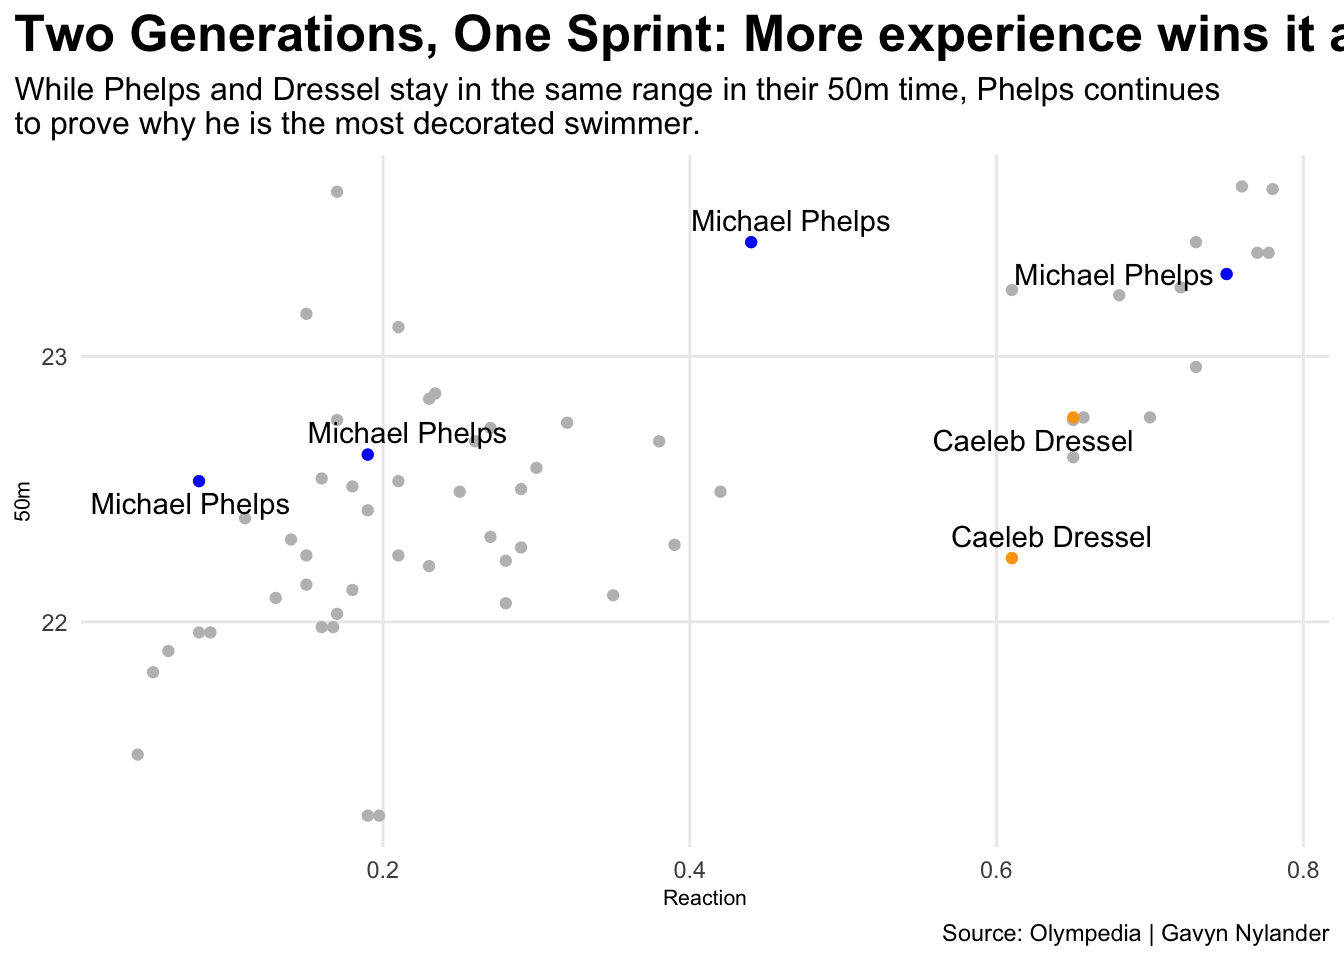
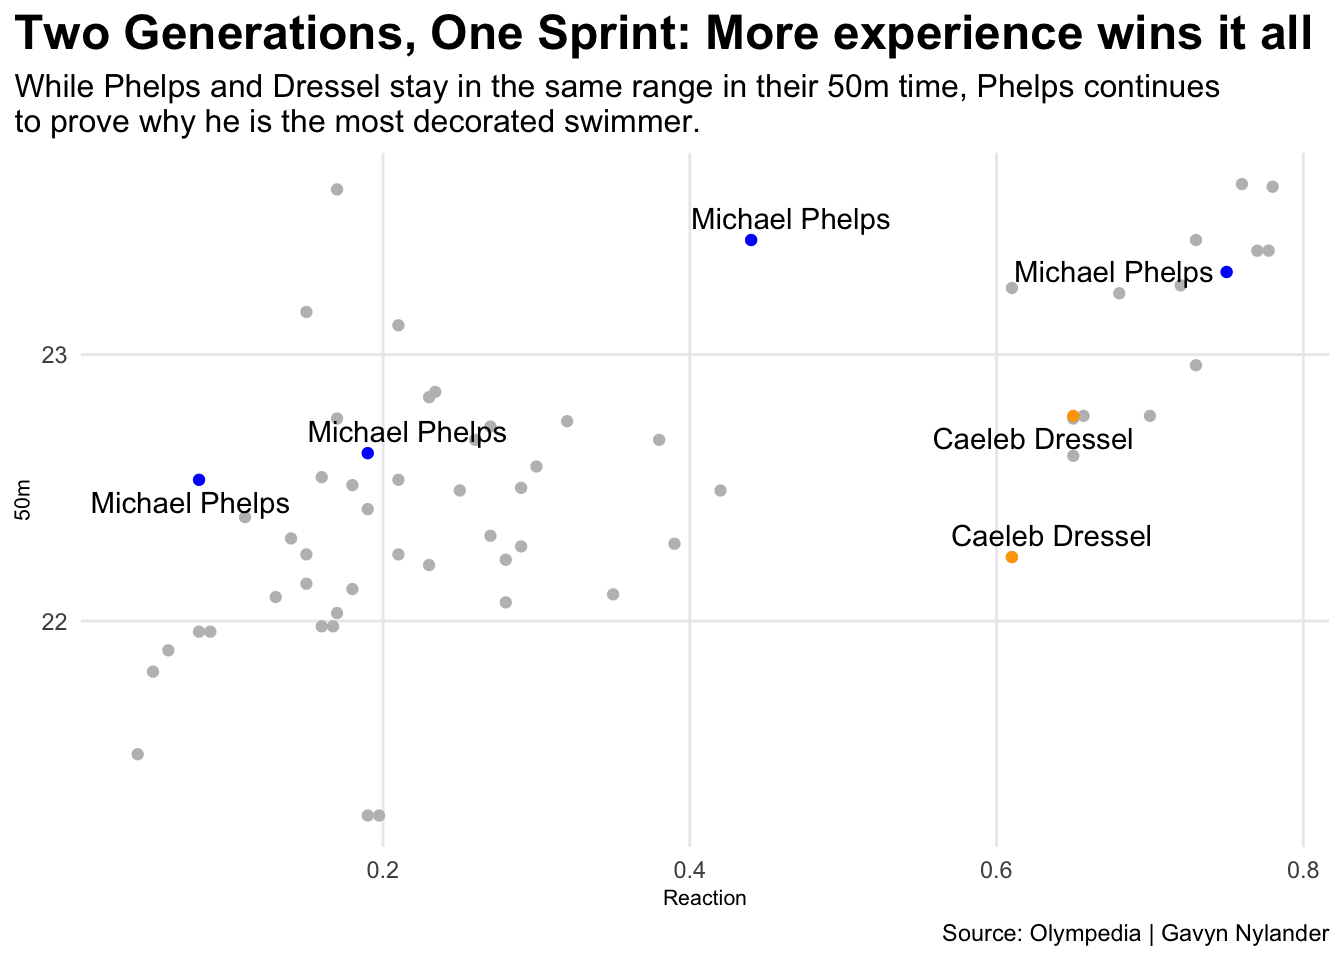
1

diff --git a/posts/does-longevity-give-an-athletic-advantage/index.html b/posts/does-longevity-give-an-athletic-advantage/index.html
@@ -9,7 +9,7 @@
 <meta name="author" content="Gavyn Nylander">
 <meta name="dcterms.date" content="2025-11-14">
 
-<title>The Michael Phelps Legacy: Showing that longevity builds an athletic advantage – Gavyn Nylander’s Sports Data Blog</title>
+<title>The Michael Phelps Legacy: Showing That Longevity Builds an Athletic Advantage – Gavyn Nylander’s Sports Data Blog</title>
 <style>
 code{white-space: pre-wrap;}
 span.smallcaps{font-variant: small-caps;}
@@ -154,7 +154,7 @@ pre > code.sourceCode > span > a:first-child::before { text-decoration: underlin
 <header id="title-block-header" class="quarto-title-block default page-columns page-full">
   <div class="quarto-title-banner page-columns page-full">
     <div class="quarto-title column-body">
-      <h1 class="title">The Michael Phelps Legacy: Showing that longevity builds an athletic advantage</h1>
+      <h1 class="title">The Michael Phelps Legacy: Showing That Longevity Builds an Athletic Advantage</h1>
                                 <div class="quarto-categories">
                 <div class="quarto-category">olympics</div>
                 <div class="quarto-category">swimming</div>
@@ -194,7 +194,7 @@ pre > code.sourceCode > span > a:first-child::before { text-decoration: underlin
 
 
 
-<p>When you hear the words Olympic swimming, one name always comes to mind: Michael Phelps. In more recent years since the retirement of the legend, another name has been brought up in conversation: Caeleb Dressel. Both have won many medals in their field and have made many contributions to the sport. Yet one key factors sets them apart,its not just the medals or their speed, but the duration of how long they have participated in the Olympics for.&nbsp;</p>
+<p>When you hear the words Olympic swimming, one name always comes to mind: Michael Phelps. Since the retirement of the legend, another name has been brought up in conversation: Caeleb Dressel. Both have won many medals in their field and have made many contributions to the sport. Yet one key factors sets them apart,its not just the medals or their speed, but the duration of how long they have participated in the Olympics for.&nbsp;</p>
 <p>&nbsp;</p>
 <p>In 2000, Phelps competed in his first Olympics at the age of 15 years old. Dressel, however, is much newer to the Olympic stage competing in his first Olympic games at the 2016 Rio Olympics, showing the vast difference in the duration of their Olympic careers.&nbsp;</p>
 <p>&nbsp;</p>
@@ -251,7 +251,7 @@ pre > code.sourceCode > span > a:first-child::before { text-decoration: underlin
 </div>
 <p>The 50-meter reaction times of Phelps and Dressel show how close their performances are. Both athletes maintain the same level of speed right from the start, despite there being a gap in the levels between these two.</p>
 <p>&nbsp;</p>
-<p>Given that in the past Olympics, Dressel has shown that he should be held to the same level as Phelps, breaking his record in the 100-meter butterfly. However, Phelps’s reaction times demonstrate that not only is he still able to compete, but that he is even able to surpass the competition.&nbsp;</p>
+<p>Dressel has shown that he should be held to the same level as Phelps, breaking his record in the 100-meter butterfly. However, Phelps’s reaction times demonstrate that not only is he still able to compete, but that he is even able to surpass the competition.&nbsp;</p>
 <p>&nbsp;</p>
 <p>Since Dressel is still in the middle of his career, his points on the chart are more recent. Phelps points span over a longer period of time, showing how dominate he has been through his different competitive periods.&nbsp;</p>
 <div class="cell">
@@ -294,7 +294,7 @@ pre > code.sourceCode > span > a:first-child::before { text-decoration: underlin
 <span id="cb2-35"><a href="#cb2-35" aria-hidden="true" tabindex="-1"></a>    ) <span class="sc">+</span></span>
 <span id="cb2-36"><a href="#cb2-36" aria-hidden="true" tabindex="-1"></a>  <span class="fu">theme_minimal</span>() <span class="sc">+</span> </span>
 <span id="cb2-37"><a href="#cb2-37" aria-hidden="true" tabindex="-1"></a>  <span class="fu">theme</span>(</span>
-<span id="cb2-38"><a href="#cb2-38" aria-hidden="true" tabindex="-1"></a>    <span class="at">plot.title =</span> <span class="fu">element_text</span>(<span class="at">size =</span> <span class="dv">19</span>, <span class="at">face =</span> <span class="st">"bold"</span>),</span>
+<span id="cb2-38"><a href="#cb2-38" aria-hidden="true" tabindex="-1"></a>    <span class="at">plot.title =</span> <span class="fu">element_text</span>(<span class="at">size =</span> <span class="dv">18</span>, <span class="at">face =</span> <span class="st">"bold"</span>),</span>
 <span id="cb2-39"><a href="#cb2-39" aria-hidden="true" tabindex="-1"></a>    <span class="at">axis.title =</span> <span class="fu">element_text</span>(<span class="at">size =</span> <span class="dv">8</span>), </span>
 <span id="cb2-40"><a href="#cb2-40" aria-hidden="true" tabindex="-1"></a>    <span class="at">plot.subtitle =</span> <span class="fu">element_text</span>(<span class="at">size=</span><span class="dv">12</span>), </span>
 <span id="cb2-41"><a href="#cb2-41" aria-hidden="true" tabindex="-1"></a>    <span class="at">panel.grid.minor =</span> <span class="fu">element_blank</span>(),</span>

diff --git a/index.html b/index.html
@@ -209,7 +209,7 @@ window.Quarto = {
 
 <div class="quarto-listing quarto-listing-container-default" id="listing-listing">
 <div class="list quarto-listing-default">
-<div class="quarto-post image-right" data-index="0" data-categories="b2x5bXBpY3MlMkNzd2ltbWluZw==" data-listing-date-sort="1763100000000" data-listing-file-modified-sort="1763245071855" data-listing-date-modified-sort="NaN" data-listing-reading-time-sort="7" data-listing-word-count-sort="1284">
+<div class="quarto-post image-right" data-index="0" data-categories="b2x5bXBpY3MlMkNzd2ltbWluZw==" data-listing-date-sort="1763100000000" data-listing-file-modified-sort="1763275214300" data-listing-date-modified-sort="NaN" data-listing-reading-time-sort="7" data-listing-word-count-sort="1274">
 <div class="thumbnail"><a href="./posts/does-longevity-give-an-athletic-advantage/index.html" class="no-external">
 
 <img loading="lazy" src="./posts/does-longevity-give-an-athletic-advantage/image.png" class="thumbnail-image">
@@ -217,7 +217,7 @@ window.Quarto = {
 </a></div>
 <div class="body">
 <h3 class="no-anchor listing-title">
-<a href="./posts/does-longevity-give-an-athletic-advantage/index.html" class="no-external">The Michael Phelps Legacy: Showing that longevity builds an athletic advantage</a>
+<a href="./posts/does-longevity-give-an-athletic-advantage/index.html" class="no-external">The Michael Phelps Legacy: Showing That Longevity Builds an Athletic Advantage</a>
 </h3>
 <div class="listing-categories">
 
@@ -227,7 +227,7 @@ window.Quarto = {
 
 </div>
 <div class="delink listing-description"><a href="./posts/does-longevity-give-an-athletic-advantage/index.html" class="no-external">
-When you hear the words Olympic swimming, one name always comes to mind: Michael Phelps. In more recent years since the retirement of the legend, another name has been…
+When you hear the words Olympic swimming, one name always comes to mind: Michael Phelps. Since the retirement of the legend, another name has been brought up in…
 </a></div>
 </div>
 <div class="metadata">
